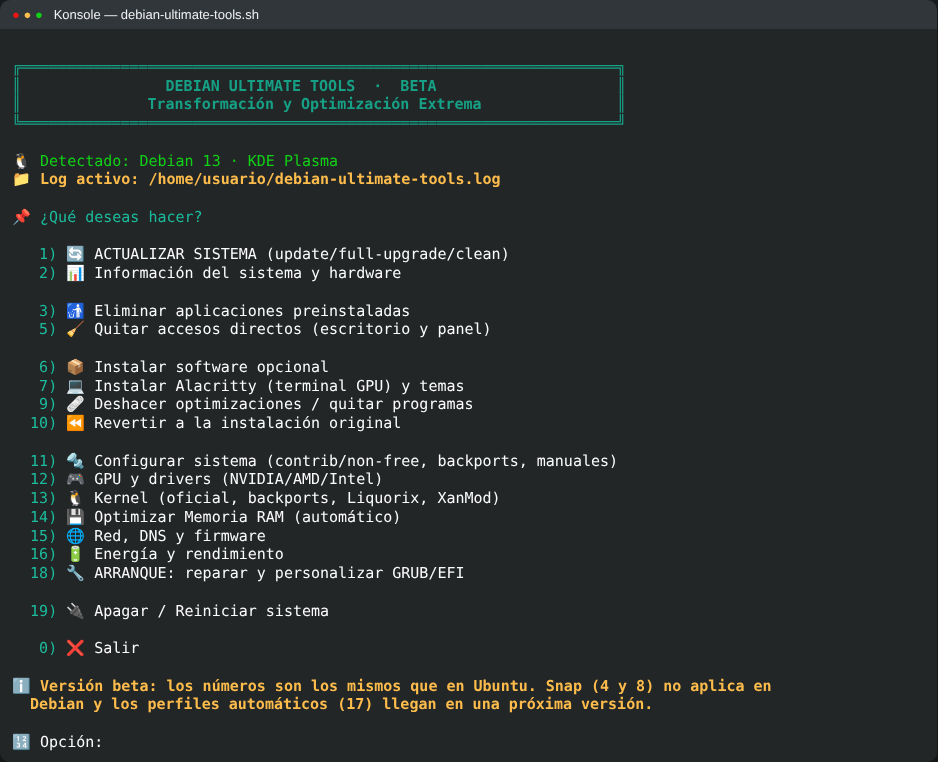
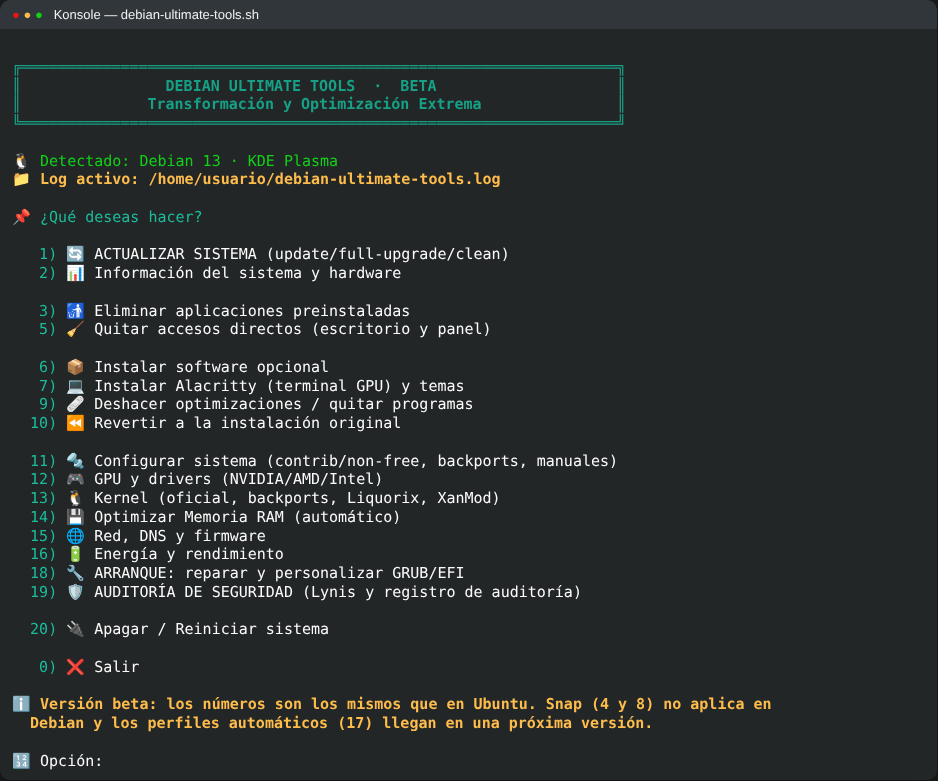
Auditoría de seguridad como ítem propio (19) en los tres scripts
- Sale de Información del sistema y pasa al menú principal: 19) Auditoría de seguridad
- Apagar / Reiniciar pasa a 20 (sigue siendo la última antes de 0), también en modo arranque
- Menú propio: Lynis, activar / ver / quitar el registro de auditoría
- Arch: misma opción, con Lynis y audit desde los repositorios oficiales y quitar en 9 → 11
- README, galería, créditos y capturas actualizados

diff --git a/README.md b/README.md
@@ -242,7 +242,7 @@ Todo lo hace el propio script, sin instalar programas externos.
 - El script detecta la distribución, la carpeta de GRUB (`/boot/grub` o `/boot/grub2`), dónde está montada la
   partición EFI y cómo se llama su carpeta (`ubuntu`, `debian`, `GRUB`, `manjaro`, `fedora`...).
 - **En Ubuntu y sus derivadas** (Kubuntu, Mint, Pop!_OS...) está todo el script. **En las demás distribuciones**
-  el menú principal muestra solo **18) Arranque** y **19) Apagar**, con los mismos números, así la tarjeta de
+  el menú principal muestra solo **18) Arranque** y **20) Apagar**, con los mismos números, así la tarjeta de
   rescate y las guías sirven igual.
 - Desde el USB de cualquiera de estas distribuciones, la **reparación desde Live USB (18 → 10)** detecta qué
   sistema hay en el disco y usa sus comandos (también con btrfs, `/boot` aparte y discos cifrados).
@@ -394,23 +394,30 @@ En todos los menús y submenús, **0** vuelve al menú anterior (en el principal
 | 🧰 | **13** Buscar | Escribe una palabra (nvidia, temp, wifi, error...) y la busca en **toda** la información |
 | | **14** Guardar informe | Todo en `~/informe-sistema-<fecha>.txt`, **sin datos personales** (números de serie, MAC, IP, UUID, usuario, equipo y Wi-Fi) |
 | | **15** Rendimiento | Velocidad de lectura y escritura del disco, latencia y velocidad de descarga |
-| 🛡 | **16** Auditoría con Lynis | Revisa la seguridad (usuarios, SSH, cortafuegos, servicios, permisos, kernel...) y da un **puntaje** con advertencias y consejos. **Sin instalar** (paquete oficial de la distro en una carpeta temporal) o instalado |
-| | **17** Registro de auditoría | Activa **auditd** con reglas propias: quién y cuándo cambió usuarios, contraseñas, sudo, SSH, hora, red, tareas, servicios, repositorios y módulos del kernel |
 
-### 🛡 Auditoría de seguridad (opción 2 → 16 y 17)
+---
+
+## 🛡 Auditoría de seguridad (opción 19)
 
 ![Auditoría de seguridad con Lynis](screenshots/25-auditoria-lynis.png)
+
+| Opción | Qué hace |
+|---|---|
+| **1** Revisar con Lynis | Revisa la seguridad (usuarios, SSH, cortafuegos, servicios, permisos, kernel...) y da un **puntaje** con advertencias y consejos. **Sin instalar** (Ubuntu y Debian) o instalado |
+| **2** Activar registro | **auditd** con reglas propias: quién y cuándo cambió usuarios, contraseñas, sudo, SSH, hora, red, tareas, servicios, repositorios y módulos del kernel |
+| **3** Ver qué se registró | Resumen por categoría y últimos cambios en usuarios, sudo y SSH |
+| **4** Quitar | Borra las reglas y, si lo instaló el script, auditd y sus registros |
 
 - **Lynis** ([CISOfy](https://cisofy.com/lynis/), GPL-3.0) solo **revisa**: no cambia nada. El resumen sale en castellano
   (puntaje, advertencias y sugerencias) y el informe completo queda en `~/auditoria-seguridad/<fecha>/`
   (solo lo puede leer tu usuario: contiene datos del sistema, no lo compartas en público). Usado sin instalar,
-  se borra al terminar y no deja nada; instalado, se quita en 9 → 1.
+  se borra al terminar y no deja nada; instalado (en Arch siempre, desde sus repositorios oficiales), se quita en 9 → 1.
 - **auditd** usa reglas **propias del script** en `/etc/audit/rules.d/60-ultimate-tools.rules`:
   - solo vigila archivos que existen y llamadas que existen en tu procesador;
   - **sin `-e 2`**: las reglas nunca quedan bloqueadas hasta reiniciar, y nunca provoca un *kernel panic*;
   - si el sistema no las acepta (por ejemplo en un contenedor o WSL), se quitan solas y todo queda como estaba.
   - **Ver qué se registró**: resumen por categoría y los últimos cambios en usuarios, sudo y SSH.
-  - **Quitar**: 2 → 17 → 3 o 9 → 13 borra las reglas; si auditd lo instaló el script, ofrece desinstalarlo y
+  - **Quitar**: 19 → 4 (o Deshacer: Ubuntu 9 → 13, Debian y Arch 9 → 11) borra las reglas; si auditd lo instaló el script, ofrece desinstalarlo y
     borrar sus registros.
 - Idea inspirada en [Linux-Security-Policy](https://github.com/Starke427/Linux-Security-Policy) de Jeff Starke
   (Starke427). No se usa su código porque su repositorio no tiene licencia (ver [CREDITOS.md](CREDITOS.md)).

diff --git a/CREDITOS.md b/CREDITOS.md
@@ -128,11 +128,11 @@ El script solo instala los metapaquetes oficiales de Ubuntu; cada escritorio y s
 | [inxi](https://github.com/smxi/inxi) | GPL-3.0-or-later | Instala |
 | [smartmontools](https://www.smartmontools.org/) | GPL-2.0-or-later | Instala: salud de los discos |
 
-## 🛡 Auditoría de seguridad (opción 2 → 16 y 17)
+## 🛡 Auditoría de seguridad (opción 19)
 
 | Proyecto | Autor | Licencia | Uso |
 |---|---|---|---|
-| [Lynis](https://github.com/CISOfy/lynis) | Michael Boelen / CISOfy | GPL-3.0 | Externo: paquete oficial de la distro, usado **sin instalar** (carpeta temporal que se borra) o instalado |
+| [Lynis](https://github.com/CISOfy/lynis) | Michael Boelen / CISOfy | GPL-3.0 | Externo: paquete oficial de la distro, usado **sin instalar** en Ubuntu y Debian (carpeta temporal que se borra) o instalado (Arch: repositorios oficiales) |
 | [Linux Audit (auditd)](https://github.com/linux-audit/audit-userspace) | Red Hat y colaboradores | GPL-2.0-or-later (bibliotecas LGPL-2.1) | Instala: registro de auditoría con reglas **propias del script** |
 | [Linux-Security-Policy](https://github.com/Starke427/Linux-Security-Policy) | Jeff Starke (Starke427) | **Sin licencia publicada** | **Inspiración**: la idea de combinar auditd y Lynis. No se copia ni se descarga su código ni sus reglas: un repositorio sin licencia no se puede redistribuir. Las reglas de auditd del script se escribieron desde cero para Ubuntu y Debian actuales |
 

diff --git a/screenshots/README.md b/screenshots/README.md
@@ -151,12 +151,12 @@ sabor y el escritorio detectados, y las listas muestran solo lo que está instal
 
 ---
 
-## Auditoría de seguridad con Lynis (opción 2 → 16)
+## Auditoría de seguridad con Lynis (opción 19 → 1)
 
 ![Auditoría de seguridad con Lynis: puntaje, advertencias y sugerencias](25-auditoria-lynis.png)
 
 ---
 
-## Registro de auditoría con auditd (opción 2 → 17)
+## Menú de auditoría de seguridad (opción 19)
 
-![Registro de auditoría (auditd)](26-registro-auditoria.png)
+![Auditoría de seguridad: Lynis y registro de auditoría (auditd)](26-registro-auditoria.png)
